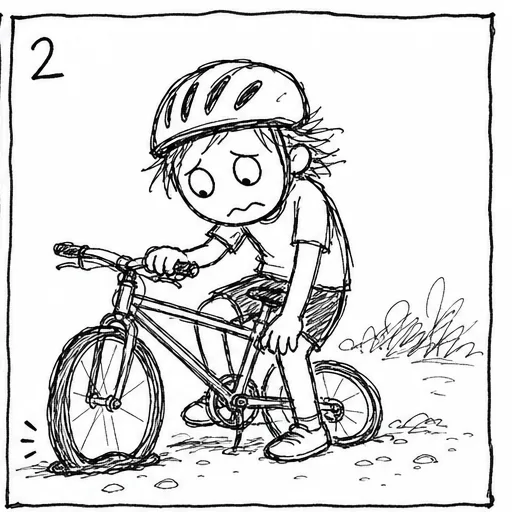
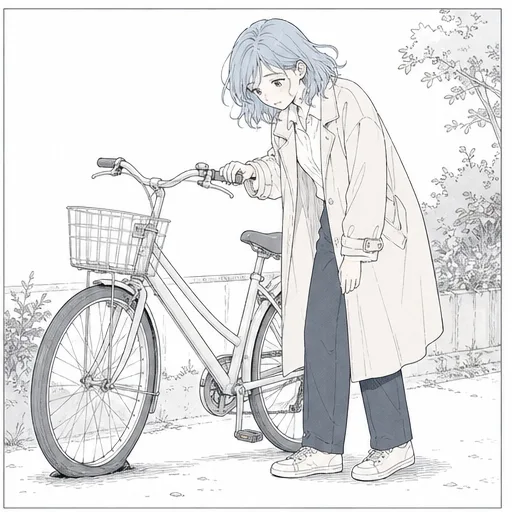
Replace story sessions 1–3 with reference manga line art.
Regenerate bike-flat, blackout, and cooking-disaster as pale line-art 4-panel strips with no text, matching the user reference style.

diff --git a/scripts/story-art-style.ts b/scripts/story-art-style.ts
@@ -1,7 +1,14 @@
+/** Preferred style (sessions 1–3 reference): soft manga line art, minimal pale wash, no text. */
+export const STORY_REFERENCE_MANGA_PROMPT = `
+Art style: soft Japanese manga/webcomic illustration. Clean thin brown-black line art.
+Character: young woman, wavy shoulder-length light blue hair, beige trench coat, white collared shirt, dark pants — SAME in every panel.
+Color: almost none — line art only, or extremely faint pale gray-blue wash. Mostly white.
+NO text, NO numbers, NO speech bubbles, NO labels, NO onomatopoeia anywhere.
+Layout: single square 2x2 grid, four equal panels, white gutters.
+`.trim();
+
 /**
- * PicSpeak story-panel art style — rough doodle line art with a blended casual-comic feel.
- * Essence of loose diary/webcomic sketch (~30%) mixed with original ESL-app illustration.
- * Do not aim to replicate any single artist or series.
+ * Legacy doodle style for sessions 4+ until migrated.
  */
 export const STORY_PANEL_STYLE_PROMPT = `
 MANDATORY ART STYLE — use IDENTICALLY in every image for cross-story consistency:
